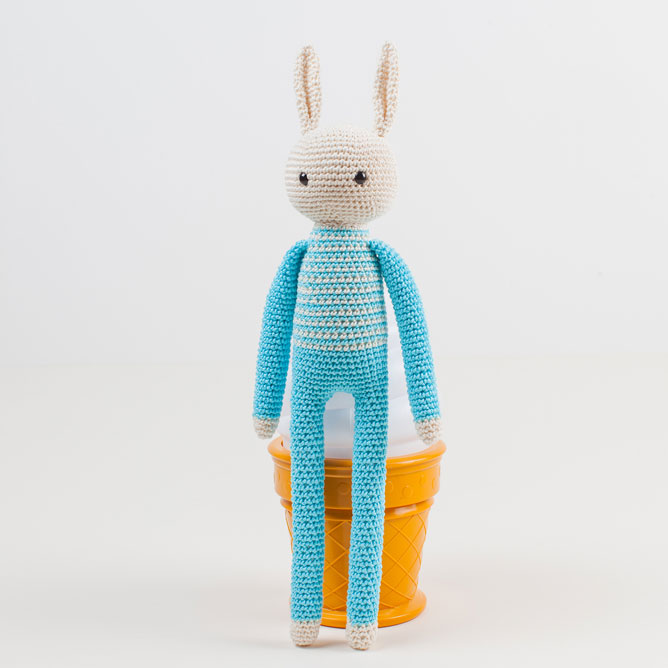
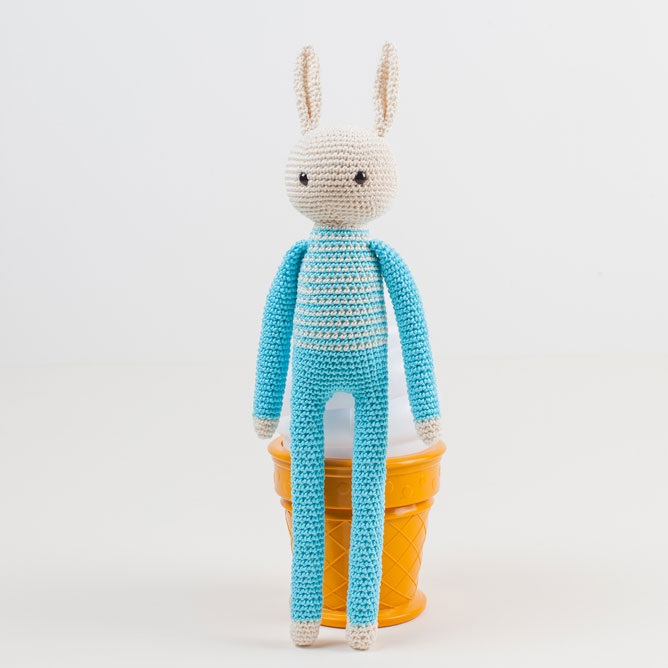
retina

diff --git a/css/style.css b/css/style.css
@@ -391,7 +391,13 @@ body {
   font-weight: bold;
   color: #000;
   font-family: 'Open Sans';
-  background: #fafafa url('../../img/hero-mobile@1x.jpg') 50% 21% no-repeat;
+  background: #fafafa url('../../img/hero-mobile@1x.jpg') 50% 0% no-repeat;
+}
+@media (-webkit-min-device-pixel-ratio: 1.5), (min-resolution: 144dpi), (min-resolution: 1.5dppx) {
+  .page-main__title {
+    background: #fafafa url('../../img/hero-mobile@2x.jpg') 50% 0% no-repeat;
+    background-size: 575px 373px;
+  }
 }
 @media (min-width: 768px) {
   .page-main {
@@ -433,6 +439,12 @@ body {
     background: none;
     padding: 110px 0 373px;
     min-height: 0;
+  }
+}
+@media (min-width: 768px) and (-webkit-min-device-pixel-ratio: 1.5), (min-width: 768px) and (min-resolution: 144dpi), (min-width: 768px) and (min-resolution: 1.5dppx) {
+  .page-main__wrapper {
+    background: #fafafa url('../../img/hero-desktop@2x.jpg') 50% 0% no-repeat;
+    background-size: 1150px 746px;
   }
 }
 @media (min-width: 1150px) {
@@ -510,6 +522,12 @@ body {
     font-weight: bold;
     color: #000;
     font-family: 'Open Sans';
+  }
+}
+@media (min-width: 1150px) and (-webkit-min-device-pixel-ratio: 1.5), (min-width: 1150px) and (min-resolution: 144dpi), (min-width: 1150px) and (min-resolution: 1.5dppx) {
+  .page-main__wrapper {
+    background: #fafafa url('../../img/hero-desktop@2x.jpg') 50% 0% no-repeat;
+    background-size: 1150px 746px;
   }
 }
 .goods-favorites {
@@ -1416,6 +1434,12 @@ body {
     bottom: 0;
   }
 }
+@media (min-width: 768px) and (-webkit-min-device-pixel-ratio: 1.5), (min-width: 768px) and (min-resolution: 144dpi), (min-width: 768px) and (min-resolution: 1.5dppx) {
+  .reviews {
+    background: #fff url("../../img/review@2x.jpg") no-repeat;
+    background-size: 350px 457px;
+  }
+}
 @media (min-width: 1150px) {
   .reviews {
     width: 1050px;
@@ -1448,6 +1472,12 @@ body {
     height: 23px;
     left: 100px;
     width: 1050px;
+  }
+}
+@media (min-width: 1150px) and (-webkit-min-device-pixel-ratio: 1.5), (min-width: 1150px) and (min-resolution: 144dpi), (min-width: 1150px) and (min-resolution: 1.5dppx) {
+  .reviews {
+    background: #fff url("../../img/review@2x.jpg") 100px 0 no-repeat;
+    background-size: 350px 457px;
   }
 }
 .map__details {
@@ -1519,6 +1549,12 @@ body {
   position: relative;
   background: url('../../img/map-mobile@1x.jpg');
 }
+@media (-webkit-min-device-pixel-ratio: 1.5), (min-resolution: 144dpi), (min-resolution: 1.5dppx) {
+  .map__wrapper {
+    background: url('../../img/map-mobile@2x.jpg');
+    background-size: 320px 457px;
+  }
+}
 .map__pin {
   position: absolute;
   top: 165px;
@@ -1583,6 +1619,16 @@ body {
   .map__wrapper {
     width: 100%;
     margin-bottom: 56px;
+    background: url('../../img/map-tablet@1x.jpg');
+  }
+  .map__pin {
+    left: 349px;
+  }
+}
+@media (min-width: 768px) and (-webkit-min-device-pixel-ratio: 1.5), (min-width: 768px) and (min-resolution: 144dpi), (min-width: 768px) and (min-resolution: 1.5dppx) {
+  .map__wrapper {
+    background: url('../../img/map-tablet@2x.jpg');
+    background-size: 768px 457px;
   }
 }
 @media (min-width: 1150px) {
@@ -1609,6 +1655,7 @@ body {
     width: 525px;
     float: right;
     box-sizing: border-box;
+    background: url('../../img/map-desktop@1x.jpg');
   }
   .map__details {
     width: 525px;
@@ -1641,6 +1688,16 @@ body {
   }
   .map__details__item-dd {
     padding-left: 10px;
+  }
+  .map__pin {
+    top: 172px;
+    left: 236px;
+  }
+}
+@media (min-width: 1150px) and (-webkit-min-device-pixel-ratio: 1.5), (min-width: 1150px) and (min-resolution: 144dpi), (min-width: 1150px) and (min-resolution: 1.5dppx) {
+  .map__wrapper {
+    background: url('../../img/map-desktop@2x.jpg');
+    background-size: 525px 457px;
   }
 }
 .page-footer {
@@ -2112,6 +2169,12 @@ body {
   height: 100%;
   top: 0;
 }
+@media (-webkit-min-device-pixel-ratio: 1.5), (min-resolution: 144dpi), (min-resolution: 1.5dppx) {
+  .video-of-production__poster {
+    background: url('../../img/video-mobile@2x.jpg') no-repeat;
+    background-size: 260px 150px;
+  }
+}
 @media (min-width: 768px) {
   .video-of-production {
     width: 668px;
@@ -2154,6 +2217,12 @@ body {
     font-family: 'Open Sans';
   }
 }
+@media (min-width: 768px) and (-webkit-min-device-pixel-ratio: 1.5), (min-width: 768px) and (min-resolution: 144dpi), (min-width: 768px) and (min-resolution: 1.5dppx) {
+  .video-of-production__poster {
+    background: url('../../img/video-tablet@2x.jpg') no-repeat;
+    background-size: 668px 455px;
+  }
+}
 @media (min-width: 1150px) {
   .video-of-production {
     margin-bottom: 103px;
@@ -2194,6 +2263,12 @@ body {
   }
   .video-of-production__poster {
     background: url('../../img/video-desktop@1x.jpg') no-repeat;
+  }
+}
+@media (min-width: 1150px) and (-webkit-min-device-pixel-ratio: 1.5), (min-width: 1150px) and (min-resolution: 144dpi), (min-width: 1150px) and (min-resolution: 1.5dppx) {
+  .video-of-production__poster {
+    background: url('../../img/video-desktop@2x.jpg') no-repeat;
+    background-size: 682px 455px;
   }
 }
 .special-offers-items {

diff --git a/catalog.html b/catalog.html
@@ -167,9 +167,9 @@
 			</div>
 			<div class="catalog-product__wrapper-img">
 				<picture>
-					<source media="(min-width: 1150px)" srcset="../../img/photo-1-desktop@1x.jpg"/>
-					<source media="(min-width: 768px)" srcset="../../img/photo-1-tablet@1x.jpg"/>
-					<img src="../../img/photo-1-mobile@1x.jpg" alt="Зайчик-попрыгайчик" title="Зайчик-попрыгайчик">
+					<source media="(min-width: 1150px)" srcset="../../img/photo-1-desktop@2x.jpg 2x, ../../img/photo-1-desktop@1x.jpg 1x"/>
+					<source media="(min-width: 768px)" srcset="../../img/photo-1-tablet@2x.jpg 2x, ../../img/photo-1-tablet@1x.jpg 1x"/>
+					<img src="../../img/photo-1-mobile@1x.jpg" srcset="../../img/photo-1-mobile@2x.jpg 2x" alt="Зайчик-попрыгайчик" title="Зайчик-попрыгайчик">
 				</picture>
 			</div>
 		</article>
@@ -188,9 +188,9 @@
 			</div>
 			<div class="catalog-product__wrapper-img">
 				<picture>
-					<source media="(min-width: 1150px)" srcset="../../img/photo-2-desktop@1x.jpg"/>
-					<source media="(min-width: 768px)" srcset="../../img/photo-2-tablet@1x.jpg"/>
-					<img src="../../img/photo-2-mobile@1x.jpg" alt="Корзинка для белья" title="Корзинка для белья">
+					<source media="(min-width: 1150px)" srcset="../../img/photo-2-desktop@2x.jpg 2x, ../../img/photo-2-desktop@1x.jpg 1x"/>
+					<source media="(min-width: 768px)" srcset="../../img/photo-2-tablet@2x.jpg 2x, ../../img/photo-2-tablet@1x.jpg 1x"/>
+					<img src="../../img/photo-2-mobile@1x.jpg" srcset="../../img/photo-2-mobile@2x.jpg 2x" alt="Корзинка для белья" title="Корзинка для белья">
 				</picture>
 			</div>
 		</article>
@@ -209,9 +209,9 @@
 			</div>
 			<div class="catalog-product__wrapper-img">
 				<picture>
-					<source media="(min-width: 1150px)" srcset="../../img/photo-3-desktop@1x.jpg"/>
-					<source media="(min-width: 768px)" srcset="../../img/photo-3-tablet@1x.jpg"/>
-					<img src="../../img/photo-3-mobile@1x.jpg" alt="Большая корзинка для игрушек" title="Большая корзинка для игрушек">
+					<source media="(min-width: 1150px)" srcset="../../img/photo-3-desktop@2x.jpg 2x, ../../img/photo-3-desktop@1x.jpg 1x"/>
+					<source media="(min-width: 768px)" srcset="../../img/photo-3-tablet@2x.jpg 2x, ../../img/photo-3-tablet@1x.jpg 1x"/>
+					<img src="../../img/photo-3-mobile@1x.jpg" srcset="../../img/photo-3-mobile@2x.jpg 2x" alt="Большая корзинка для игрушек" title="Большая корзинка для игрушек">
 				</picture>
 			</div>
 		</article>

diff --git a/less/blocks/page-main.less b/less/blocks/page-main.less
@@ -13,7 +13,12 @@
 		text-align: center;
 		min-height: 212px;
 		.font(27px;30px);
-		background: #fafafa url('../../img/hero-mobile@1x.jpg') 50% 21% no-repeat;
+		background: #fafafa url('../../img/hero-mobile@1x.jpg') 50% 0% no-repeat;
+		@media (min-resolution: 144dpi),
+		(min-resolution: 1.5dppx) {
+			background: #fafafa url('../../img/hero-mobile@2x.jpg') 50% 0% no-repeat;
+			background-size: 575px 373px;
+		}
 	}
 	@media @tablet_width {
 		margin-top: -44px;
@@ -23,6 +28,11 @@
 		&__wrapper {
 			position: relative;
 			background: #fafafa url('../../img/hero-desktop@1x.jpg') 50% 0% no-repeat;
+			@media (min-resolution: 144dpi),
+			(min-resolution: 1.5dppx) {
+				background: #fafafa url('../../img/hero-desktop@2x.jpg') 50% 0% no-repeat;
+				background-size: 1150px 746px;
+			}
 			padding: 17px 50px 0;
 			min-height: 404px;
 			display: flex;
@@ -56,6 +66,11 @@
 		&__wrapper {
 			padding: 19px 100px 10px;
 			background: #fafafa url('../../img/hero-desktop@1x.jpg') 50% 0 no-repeat;
+			@media (min-resolution: 144dpi),
+			(min-resolution: 1.5dppx) {
+				background: #fafafa url('../../img/hero-desktop@2x.jpg') 50% 0% no-repeat;
+				background-size: 1150px 746px;
+			}
 			margin-bottom: 52px;
 		}
 		&__title {

diff --git a/less/blocks/map.less b/less/blocks/map.less
@@ -55,6 +55,11 @@
 		height: 457px;
 		position: relative;
 		background: url('../../img/map-mobile@1x.jpg');
+		@media (min-resolution: 144dpi),
+		(min-resolution: 1.5dppx) {
+			background: url('../../img/map-mobile@2x.jpg');
+			background-size: 320px 457px;
+		}
 	}
 	&__pin {
 		position: absolute;
@@ -110,6 +115,15 @@
 		&__wrapper {
 			width: 100%;
 			margin-bottom: 56px;
+			background: url('../../img/map-tablet@1x.jpg');
+			@media (min-resolution: 144dpi),
+			(min-resolution: 1.5dppx) {
+				background: url('../../img/map-tablet@2x.jpg');
+				background-size: 768px 457px;
+			}
+		}
+		&__pin {
+			left: 349px;
 		}
 	}
 	@media @desktop_width {
@@ -132,6 +146,12 @@
 			width: 525px;
 			float: right;
 			box-sizing: border-box;
+			background: url('../../img/map-desktop@1x.jpg');
+			@media (min-resolution: 144dpi),
+			(min-resolution: 1.5dppx) {
+				background: url('../../img/map-desktop@2x.jpg');
+				background-size: 525px 457px;
+			}
 		}
 		&__details {
 			width: 525px;
@@ -160,6 +180,10 @@
 		}
 		&__details__item-dd {
 			padding-left: 10px;
+		}
+		&__pin {
+			top: 172px;
+			left: 236px;
 		}
 	}
 }

diff --git a/less/blocks/video-of-production.less b/less/blocks/video-of-production.less
@@ -44,6 +44,11 @@
 	&__poster {
 		display: block;
 		background: url('../../img/video-mobile@1x.jpg') no-repeat;
+		@media (min-resolution: 144dpi),
+		(min-resolution: 1.5dppx) {
+			background: url('../../img/video-mobile@2x.jpg') no-repeat;
+			background-size: 260px 150px;
+		}
 		position: absolute;
 		width: 100%;
 		height: 100%;
@@ -59,6 +64,11 @@
 		}
 		&__poster {
 			background: red url('../../img/video-tablet@1x.jpg') no-repeat;
+			@media (min-resolution: 144dpi),
+			(min-resolution: 1.5dppx) {
+				background: url('../../img/video-tablet@2x.jpg') no-repeat;
+				background-size: 668px 455px;
+			}
 		}
 		&__title {
 			.font(20px);
@@ -113,6 +123,11 @@
 		}
 		&__poster {
 			background: url('../../img/video-desktop@1x.jpg') no-repeat;
+			@media (min-resolution: 144dpi),
+			(min-resolution: 1.5dppx) {
+				background: url('../../img/video-desktop@2x.jpg') no-repeat;
+				background-size: 682px 455px;
+			}
 		}
 	}
 }

diff --git a/index.html b/index.html
@@ -185,9 +185,9 @@
 							</tr>
 						</table>
 						<picture>
-							<source media="(min-width: 1150px)" srcset="img/triple-set-desktop@1x.jpg"/>
-							<source media="(min-width: 768px)" srcset="img/triple-set-tablet@1x.jpg"/>
-							<img src="img/triple-set-mobile@1x.jpg" alt="baskets" title="baskets">
+							<source media="(min-width: 1150px)" srcset="img/triple-set-desktop@2x.jpg 2x, img/triple-set-desktop@1x.jpg 1x"/>
+							<source media="(min-width: 768px)" srcset="img/triple-set-tablet@2x.jpg 2x, img/triple-set-tablet@1x.jpg 1x"/>
+							<img src="img/triple-set-mobile@1x.jpg" srcset="img/triple-set-mobile@2x.jpg 2x" alt="baskets" title="baskets">
 						</picture>
 						<b class="goods__description-price">Цена: 990 руб.</b>
 						<a class="btn btn-order" href="#">Заказать</a>

diff --git a/less/blocks/reviews.less b/less/blocks/reviews.less
@@ -69,6 +69,11 @@
 	@media @tablet_width {
 		padding: 0;
 		background: #fff url("../../img/review@1x.jpg") no-repeat;
+		@media (min-resolution: 144dpi),
+		(min-resolution: 1.5dppx) {
+			background: #fff url("../../img/review@2x.jpg") no-repeat;
+			background-size: 350px 457px;
+		}
 		display: flex;
 		flex-wrap: wrap;
 		padding-top: 79px;
@@ -123,6 +128,11 @@
 		width: 1050px;
 		padding: 70px 100px 136px;
 		background: #fff url("../../img/review@1x.jpg") 100px 0 no-repeat;
+		@media (min-resolution: 144dpi),
+		(min-resolution: 1.5dppx) {
+			background: #fff url("../../img/review@2x.jpg") 100px 0 no-repeat;
+			background-size: 350px 457px;
+		}
 		&__title {
 			.font(53px;57px);
 			padding-left: 170px;
